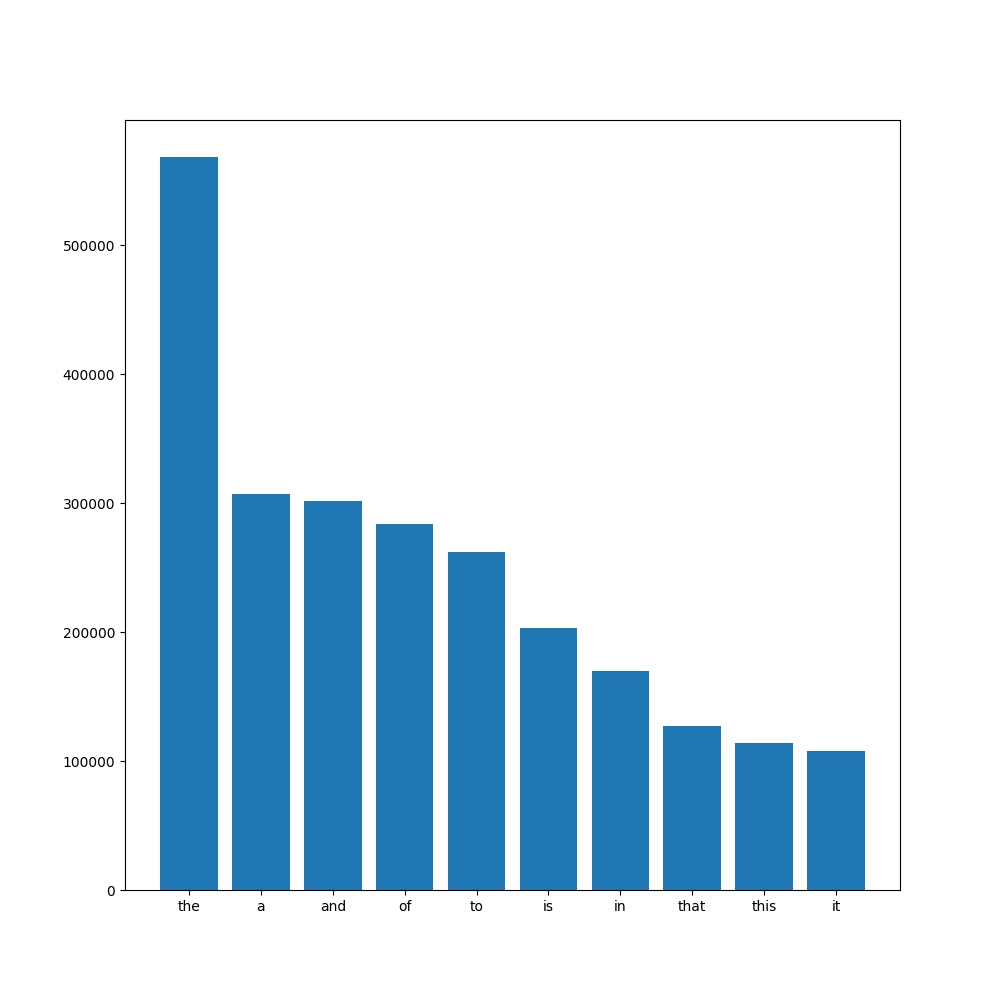
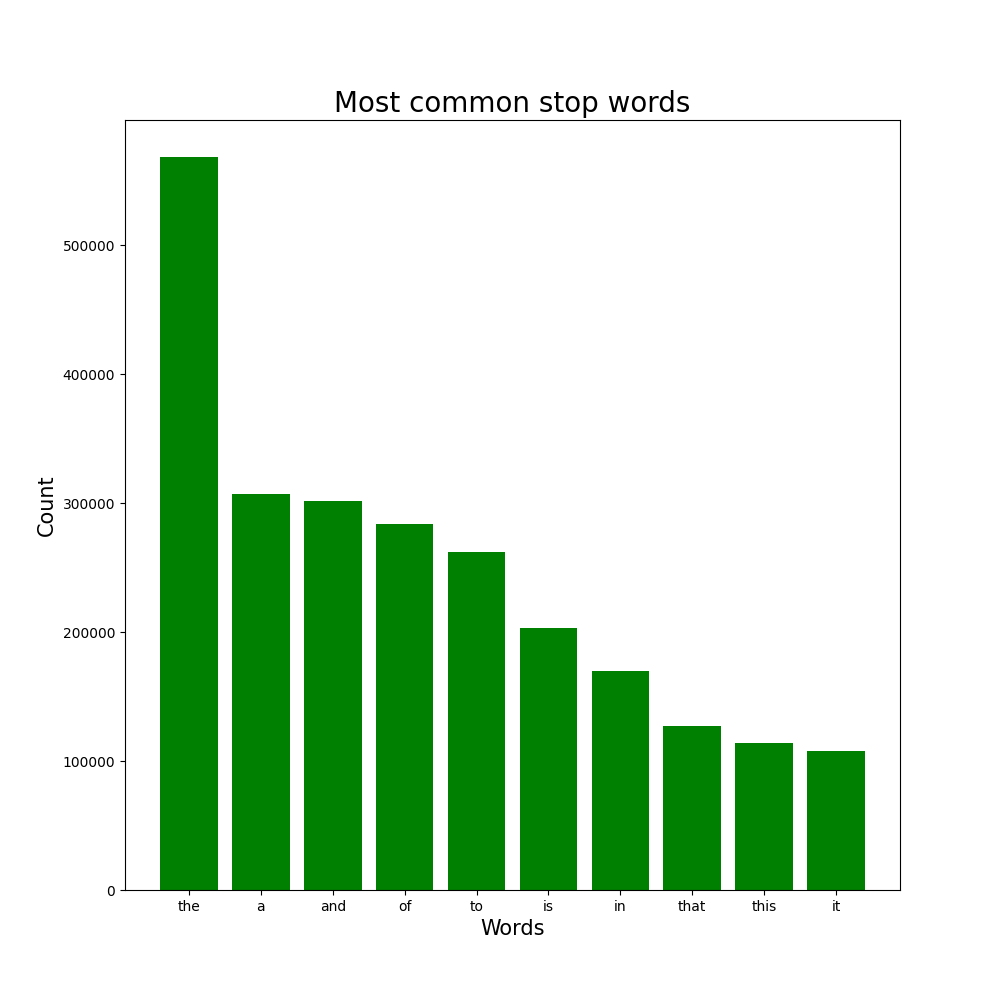
datast analysis and preprocessing

Changed region(s): [[0.155, 0.155, 0.868, 0.93], [0.341, 0.093, 0.682, 0.124], [0.031, 0.465, 0.062, 0.527]]

diff --git a/plots.py b/plots.py
@@ -1,0 +1,119 @@
+import pandas as pd
+import numpy as np
+import seaborn as sns
+import matplotlib.pyplot as plt
+import plotly.express as px
+import plotly.io as pio
+from nltk.corpus import stopwords
+from collections import  Counter
+from wordcloud import WordCloud
+
+from preprocessing import get_top_text_ngrams
+
+def plot_top_stopwords_barchart(text):
+    stop = set(stopwords.words('english'))
+    
+    new= text.str.split()
+    new=new.values.tolist()
+    corpus=[word for i in new for word in i]
+    from collections import defaultdict
+    dic = defaultdict(int)
+    for word in corpus:
+        if word in stop:
+            dic[word]+=1
+            
+    top = sorted(dic.items(), key=lambda x:x[1],reverse=True)[:10]
+    x,y = zip(*top)
+    plt.figure(figsize=(10,10))
+    plt.ylabel("Count", fontsize=15)
+    plt.xlabel("Words", fontsize=15)
+    plt.title("Most common stop words", fontsize=20)
+    plt.bar(x,y, color='green')
+
+def plot_top_non_stopwords_barchart(text):
+    stop = set(stopwords.words('english'))
+    
+    new = text.str.split()
+    new = new.values.tolist()
+    corpus = [word for i in new for word in i]
+
+    counter = Counter(corpus)
+    most = counter.most_common()
+    x, y = [], []
+    for word,count in most[:10]:
+        if (word not in stop):
+            x.append(word)
+            y.append(count)
+    plt.figure(figsize=(10,10))
+    plt.ylabel("Count", fontsize=15)
+    plt.xlabel("Words", fontsize=15)
+    plt.title("Most common non stop words", fontsize=20)
+    plt.bar(x, y, color='green')
+
+def generate_word_cloud(text_data, name):
+    wordcloud = WordCloud(width=800, height=400, background_color='white').generate(' '.join(text_data))
+    plt.figure(figsize=(10, 5))
+    plt.imshow(wordcloud, interpolation='bilinear')
+    plt.axis("off")
+    plt.savefig(f"images/{name}")
+
+
+def main():
+    path = "data/preprocessed_imdb.csv"
+    df = pd.read_csv(path)
+    df_bf = pd.read_csv("data/imdb.csv")
+
+    sentiment_count = sns.countplot(x='sentiment', data=df)
+    plt.savefig("images/sentiment_count.png")
+
+    top_stopwords = plot_top_stopwords_barchart(df_bf['review'])
+    plt.savefig("images/top_stopwords.png")
+
+    top_nonstopwords = plot_top_non_stopwords_barchart(df['review'])
+    plt.savefig("images/top_nonstopwords.png")
+
+    df['word_length'] = df['tokens'].apply(len)
+    most_common_bi = get_top_text_ngrams(df.review, 20, 2)
+    most_common_bi = dict(most_common_bi)
+    temp = pd.DataFrame(columns = ["Common_words" , 'Count'])
+    temp["Common_words"] = list(most_common_bi.keys())
+    temp["Count"] = list(most_common_bi.values())
+
+    # Create a bar chart using Matplotlib
+    fig = px.bar(temp, x="Count", y="Common_words", title='Commmon Bigrams in Text', orientation='h', width=700, height=700,color='Common_words')
+    fig.write_image("images/common_bigrams_in_text.png")
+        
+    # Plotting the distribution of review word counts
+    plt.figure(figsize=(10, 5))
+    print(df.head())
+    review_word_counts = df['review'].apply(lambda review: len(review.split()))
+    print(review_word_counts)
+    plt.hist(review_word_counts, bins=50, color='green', alpha=0.7)
+    plt.title('Distribution of Review Word Counts in IMDB Reviews')
+    plt.xlabel('Review Word Count')
+    plt.ylabel('Number of Reviews')
+    plt.savefig("images/words_count_distribution.png")
+
+
+    # Plotting the distribution of review word counts positive vs negative
+    df['word_count'] = df['review'].apply(lambda x: len(x.split()))
+    positive_word_counts = df[df['sentiment'] == 1]['word_count']
+    negative_word_counts = df[df['sentiment'] == 0]['word_count']
+    plt.figure(figsize=(10, 5))
+    plt.hist(positive_word_counts, bins=20, alpha=0.7, label='Positive Reviews', color='green')
+    plt.hist(negative_word_counts, bins=20, alpha=0.7, label='Negative Reviews', color='red')
+    plt.xlabel('Review Word Count')
+    plt.ylabel('Number of Reviews')
+    plt.title('Word Count Distribution of Positive vs. Negative Reviews')
+    plt.legend()
+    plt.savefig("images/words_count_distribution_positive_vs_negative.png")
+
+    # WordCloud
+    positive_reviews = df[df['sentiment'] == 1]['review']
+    negative_reviews = df[df['sentiment'] == 0]['review']
+
+    generate_word_cloud(positive_reviews, "wordcloud_positive")
+    generate_word_cloud(negative_reviews, "wordcloud_negative")
+
+if __name__ == "__main__":
+    main()

diff --git a/preprocessing.py b/preprocessing.py
@@ -1,0 +1,104 @@
+from cProfile import label
+import pandas as pd
+import string
+import re
+import pandas as pd
+import seaborn as sns
+import matplotlib.pyplot as plt
+import plotly.express as px
+import plotly.io as pio
+import pandas as pd
+from nltk.corpus import stopwords
+from nltk.tokenize import word_tokenize, sent_tokenize
+import nltk
+from nltk.stem.porter import PorterStemmer
+from nltk.stem import WordNetLemmatizer
+from sklearn.feature_extraction.text import CountVectorizer
+from collections import  Counter
+import logging
+import warnings
+
+
+logging.basicConfig(format="%(levelname)s - %(asctime)s: %(message)s", datefmt= '%H:%M:%S', level=logging.INFO)
+#nltk.download('stopwords')
+#nltk.download('wordnet')
+import warnings
+warnings.filterwarnings('ignore')
+
+def remove_html_tags(data):
+    pattern= re.compile('<.*?>')
+    return pattern.sub(r'', data)
+
+def remove_urls(data):
+    pattern= re.compile(r'https?://\S+|www\.\S+')
+    return pattern.sub(r'', data)
+
+def remove_punctuations(data):
+    exclude = string.punctuation
+    return data.translate(str.maketrans('', '', exclude))
+
+def remove_between_square_brackets(data):
+    return re.sub('\[[^]]*\]', '', data)
+
+def remove_stopwords(text):
+    stop_words = set(nltk.corpus.stopwords.words('english'))
+
+    final_text = []
+    for i in text.split():
+        if i.strip().lower() not in stop_words and i.strip().lower().isalpha():
+            final_text.append(i.strip().lower())
+    return " ".join(final_text)
+
+def stem_words(data):
+    ps = PorterStemmer()
+    return [ps.stem(word) for word in data]
+
+def lemmit(data):
+    wordnet_lem = WordNetLemmatizer()
+    return [wordnet_lem.lemmatize(word) for word in data]
+
+def denoise_text(data):
+    text = remove_html_tags(data)
+    text = remove_urls(text)
+    text = remove_punctuations(text)
+    text = remove_between_square_brackets(text)
+    text = remove_stopwords(text)
+    return text
+
+def get_top_text_ngrams(corpus, n, g):
+    vec = CountVectorizer(ngram_range=(g, g)).fit(corpus)
+    bag_of_words = vec.transform(corpus)
+    sum_words = bag_of_words.sum(axis=0) 
+    words_freq = [(word, sum_words[0, idx]) for word, idx in vec.vocabulary_.items()]
+    words_freq = sorted(words_freq, key = lambda x: x[1], reverse=True)
+    return words_freq[:n]
+
+def main():
+    path = "data/imdb.csv"
+    df = pd.read_csv(path)
+
+    # Checking for any missing values
+    print(f"\nMissing values: {df.isna().sum()}")
+
+    # Some plots before cleaning data
+
+    # Count of good and bad reviews
+    count=df['sentiment'].value_counts()
+    print('Total Counts of both sets'.format(),count)
+
+    # Denoise text
+    df["review"] = df["review"].apply(denoise_text)
+
+    # Tokenize
+    df['tokens'] = df['review'].apply(lambda x: word_tokenize(x))
+    # 
+    df['tokens'] = df['tokens'].apply(lambda x: lemmit(x))
+    
+    df.sentiment.replace("positive" , 1 , inplace = True)
+    df.sentiment.replace("negative" , 0 , inplace = True)
+
+    # Save to file
+    df.to_csv("data/preprocessed_imdb.csv")
+
+if __name__ == "__main__":
+    main()
